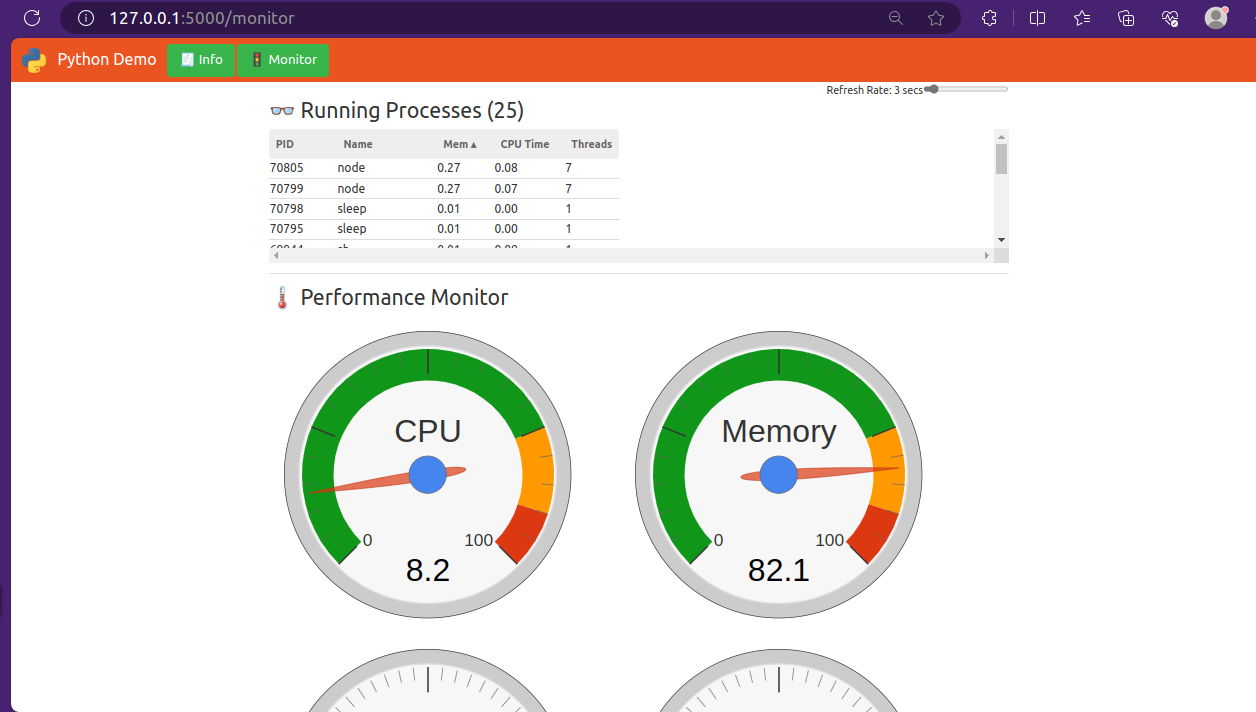
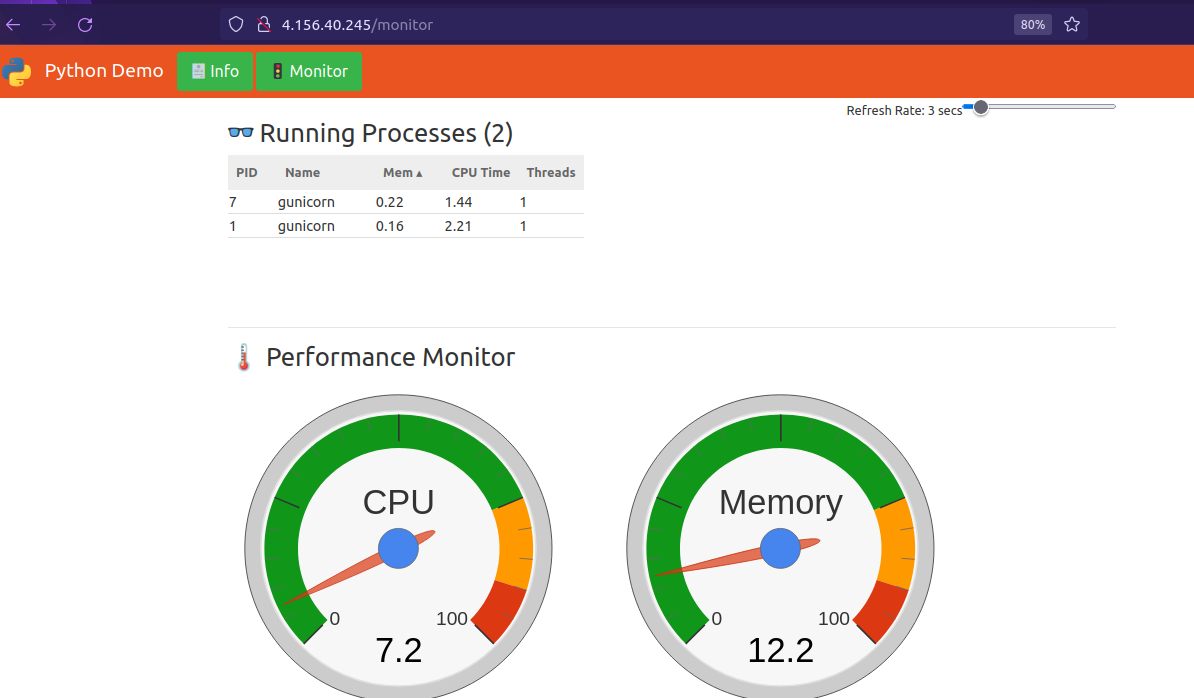
add documentation

diff --git a/README.md b/README.md
@@ -4,9 +4,9 @@ The Sysmon app is a program that monitors the health of your machines and displa
 
 
 
-<p text-align=center>
-<img src=./python-demoapp/.assets/meters.png width=90%  >
-</p>
+<!-- <p text-align=center>
+<img src=./sysmon-app/.assets/meters.png width=90%  >
+</p> -->
 
 This Documentation would walk you through the different parts of the project.
 
@@ -15,3 +15,94 @@ This Documentation would walk you through the different parts of the project.
 <p text-align=center>
 <img src=./.drawio.png width=90%  >
 </p>
+
+## Project Setup
+
+__Requirements:__
+
+- Azure Cli
+- Terraform
+- GitHub Actions
+- Kubectl
+- Helm
+
+## Deployment Instructions
+### Step 1: Provision resources for backend via portal
+I privisioned the resource group and storage account using the Azure Portal and included the info in the providers.tf. I did this to overcome the issue of errors commonly encountered when we try to destroy and rebuild the environment.
+
+### Step 2: Generate Public Key
+Next, I generated an ssh key to be used to access the virtual machines associated with the cluster. Copy the public key and replace the one in the [dev.auto.tfvars](./terraform/dev.auto.tfvars) file.
+
+### Step 3: Run Terraform Apply (Would create a pipeline for this in a bit)
+Next, cd into the [terraform](./terraform/) directory, run ```terraform init``` and ```terraform apply```. Doing these would create the AKS cluster and the ACR. It would also give the cluster permission to pull from the ACR.
+
+### Step 4: Get the KubeConfig and Install Kubectl
+Get the Kube config by running ```terraform output kube_config```. Copy the output. Create a the file __~/.kube/config__ and paste the output content there. Next install Kubectl (Google if for your specific OS).
+
+### Step 5: The CI pipeline
+The ci file is located at [.github/workflows/app_ci.yaml](.github/workflows/app_ci.yaml). Set the secrets in your repo and the trigger the run manually.
+
+### Step 6: Set up ArgoCD for Continuous Deployment
+cd into the [kubernetes/scripts](kubernetes/scripts/) folder and run the ```installargocd.sh``` script to install Argocd. Follow the instructions in the output to get the initial admin password and portforward to get to the argocd frontend.
+
+
+<p text-align=center>
+<img src=./sysmon-app/.assets/installargo.png width=90%  >
+</p>
+
+- Go ahead and login... (username is ```admin```)
+<p text-align=center>
+<img src=./sysmon-app/.assets/argo_login.png width=70%  >
+</p>
+
+### Step 7: Connect your repo to argoCD
+First, generate an ssh key pair and add the public key to SSH keys in your github. Next, copy the private key part of the key pair and add it to the space provided for it in the [./kubernetes/argocd-apps/connect-repo.yaml](./kubernetes/argocd-apps/connect-repo.yaml) file.
+
+``` yaml
+---
+apiVersion: v1
+kind: Secret
+metadata:
+  name: ssh-repo-secret
+  namespace: argocd
+  labels:
+    argocd.argoproj.io/secret-type: repository
+stringData:
+  url: git@github.com:nobleman97/perizer-app.git  # set your repo here
+  sshPrivateKey: |
+    -----BEGIN OPENSSH PRIVATE KEY-----
+    # Add private key here
+    -----END OPENSSH PRIVATE KEY-----
+  insecure: "true" # Do not perform a host key check for the server. Defaults to "false"
+  enableLfs: "true" # Enable git-lfs for this repository. Defaults to "false"
+```
+
+When you've done that, use kubectl apply to apply the yaml to the cluster.
+Next, navigate to ArgoCD >> Settings >> Repositories to check if the repository connected successfully.
+
+It should look like this...
+<p text-align=center>
+<img src=./sysmon-app/.assets/repo.png width=90%  >
+</p>
+
+### Step 8: Deploy the Application
+Next, cd into [./kubernetes/argocd-apps/sysmon/](./kubernetes/argocd-apps/sysmon/). Go go into each of the files there and ensure the repos are set correctly. Then run ```kubectl apply -f application.yaml``` This will deploy the application. 
+
+### Step 9: Get the Service for the deployment and Visit the application
+```bash
+root@cfaa7e601541:/home/perizer-app# kubectl get svc -n sysmon
+NAME         TYPE           CLUSTER-IP    EXTERNAL-IP    PORT(S)        AGE
+sysmon-svc   LoadBalancer   10.0.212.98   4.156.40.245   80:30626/TCP   7h35m
+```
+
+Visit the External-Ip...
+<p text-align=center>
+<img src=./sysmon-app/.assets/meters.png width=90%  >
+</p>
+
+### Step 9: Clean Up
+cd into the terraform folder and run ```terraform destroy``` to take down the infra.
+
+
+## Reflections
+While working on this project, I got to learn  how service principals and managed identities work.
